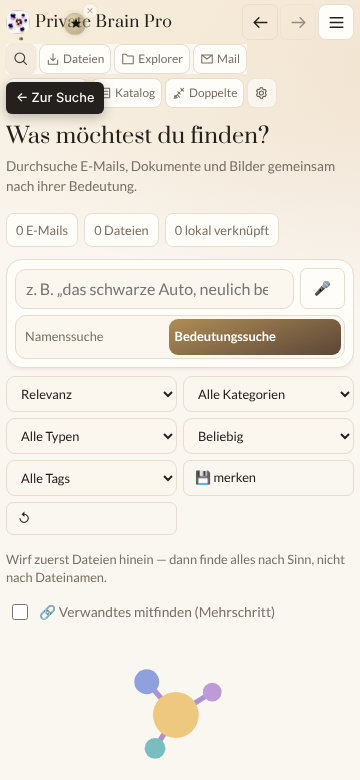
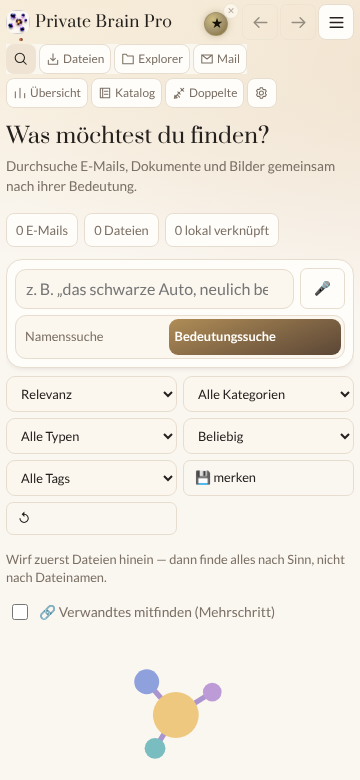
Siegel beim ersten Start oben rechts im freien Platz der Kopfleiste
Klaus: „rechts ist Platz“. Der runde Siegel-Knopf rastet beim ersten Start oben
rechts vor ← → ☰ ein statt unten in der Ecke und überdeckt den Titel nicht mehr.
Hat Klaus ihn schon verschoben, bleibt seine Lage. Probe prüft 360–1280 px; bei
320 px reicht der Platz nicht (benannt). Neues Bild ohne Zeiger-Hinweis.

Claude-Session: https://claude.ai/code/session_015dv9kh7qAxSqSbKYy1eETd

diff --git a/native/native-seal-place.js b/native/native-seal-place.js
@@ -1,0 +1,15 @@
+/* Klaus 2026-10-21: "rechts ist Platz". On first start the round Siegel sits in the top bar on
+   the right, just before the arrows and ☰, instead of the canon's lower corner. Runs before
+   Modul 17 reads its saved place; once Klaus drags it, his place wins (the key then exists). */
+(() => {
+  'use strict';
+  try {
+    const seg = (location.pathname || '').replace(/^\/+/, '').split('/')[0];
+    const key = 'sbkim_widget_position__' + (seg || 'root');
+    // The native header keeps only ← → ☰ on the right (118–126 px), so 128 px from the edge keeps
+    // the Siegel clear of them at every width and clear of the title from 360 px up. At 320 px the
+    // gap between title and arrows is only 26 px; there the Siegel touches the title's end.
+    const gap = 128;
+    if (!localStorage.getItem(key)) localStorage.setItem(key, JSON.stringify({ corner: null, offsetX: 16, offsetY: 16, x: null, y: null, oben: { seite: 'rechts', abstand: gap } }));
+  } catch { /* Without storage the canon default stays. */ }
+})();

diff --git a/docs/SIEGEL-UND-MYCEL.md b/docs/SIEGEL-UND-MYCEL.md
@@ -13,7 +13,7 @@
 
 | | Bedienung |
 |---|---|
-| 🔏 Siegel | ein **runder Knopf** mit einem kleinen ✕ am Rand. Am Knopf selbst ziehen. Lässt man ihn oben an der Kopfleiste los, rastet er dort ein, links oder rechts, je nachdem wo er losgelassen wurde. Die Lage bleibt nach dem Neustart. Kurz tippen öffnet das Siegel-Fenster. |
+| 🔏 Siegel | ein **runder Knopf** mit einem kleinen ✕ am Rand. Beim ersten Start sitzt er oben rechts in der Kopfleiste, im freien Platz vor ← → ☰ (Klaus: „rechts ist Platz“, `native/native-seal-place.js`). Am Knopf selbst ziehen. Lässt man ihn oben an der Kopfleiste los, rastet er dort ein, links oder rechts, je nachdem wo er losgelassen wurde. Die Lage bleibt nach dem Neustart. Kurz tippen öffnet das Siegel-Fenster. |
 | ✕ am Siegel | blendet es aus, auch nach dem Neustart. Zurück: **Einstellungen → „🔏 Siegel und 🌐 Mycel“ → „🔏 Siegel wieder zeigen“**. Der Knopf steht nur da, solange das Siegel ausgeblendet ist. |
 | 🌐 Mycel | keine eigene Pille mehr. Es öffnet sich aus dem **Siegel-Fenster** („🌐 Mycel-Netz“ unter der Überschrift), aus dem App-Menü ☰ und aus den Einstellungen. „–“ und „✕“ schließen es. |
 
@@ -45,6 +45,7 @@ in `native/native.css` und `native/native-mycel.js`.
   nach dem nächsten Start die neue.
 - **„✕“ am Mycel-Fenster** gilt laut Kanon nur bis zum Neuladen. Da hier keine Pille steht, schließt
   es einfach das Fenster.
+- **320 px breite Handys:** zwischen Titel und ← → ☰ bleiben nur 26 px, der Knopf ist 32 px groß. Er berührt dort das Ende des Titels; von 360 px an steht er frei (gemessen 360 · 412 · 768 · 1280 px).
 - **Andocken nur oben:** Der Kanon kennt eine einzige Andockstelle, die Kopfleiste
   (`data-sbkim-leiste`). Woanders bleibt das Siegel frei liegen, wo es losgelassen wurde.
 - **Kennzeichnung „⚠ nicht an die KI“:** Das alte Fenster hatte dafür eine eigene Marke. Das
@@ -56,7 +57,7 @@ in `native/native.css` und `native/native-mycel.js`.
 
 ## Nachweise
 
-- `tools/native/test-mycel.mjs`, 31 Prüfungen mit den echten Kanon-Modulen und ohne Netz, in
+- `tools/native/test-mycel.mjs`, 32 Prüfungen mit den echten Kanon-Modulen und ohne Netz, in
   `npm run test:native-web`. Bild: `docs/design/siegel-mycel/oben-eingerastet.png`
   (`PB_CAPTURE_DESIGN=1`).
 - Gegenprobe von Hand an Wegwerf-Kopien von `www/`, 2026-10-21. Gefangen wurden diese Fehler:
